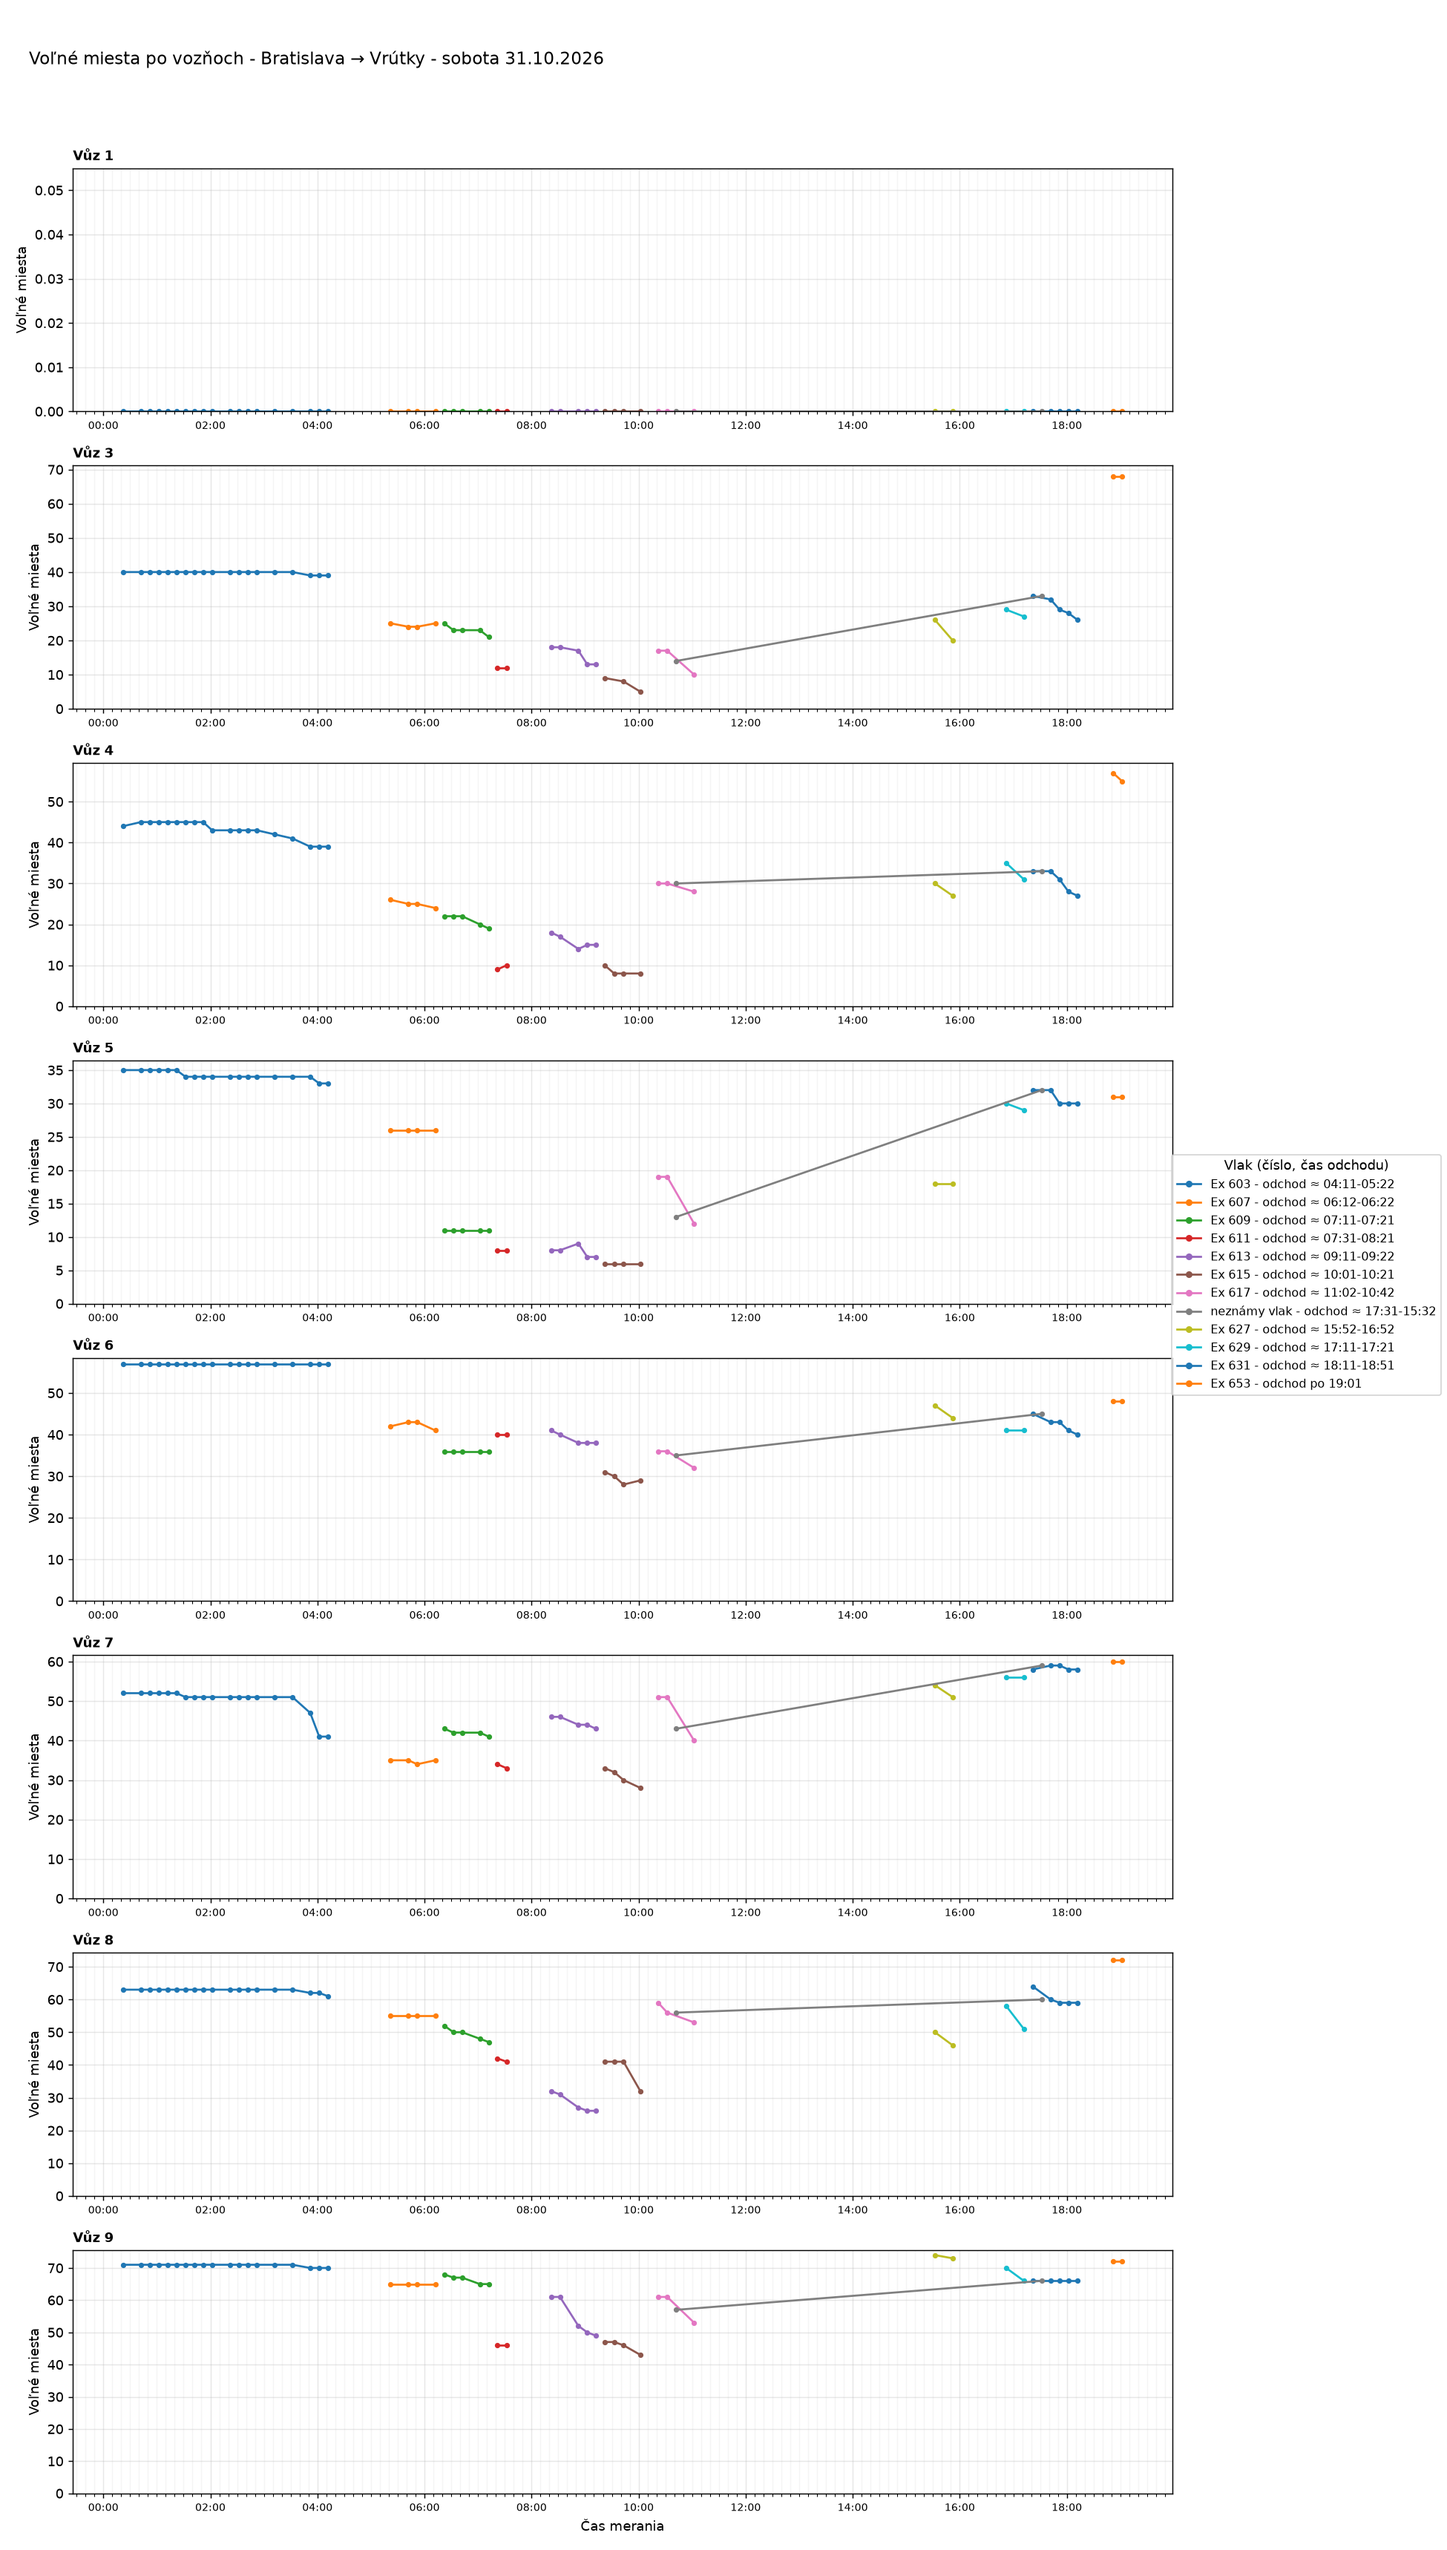
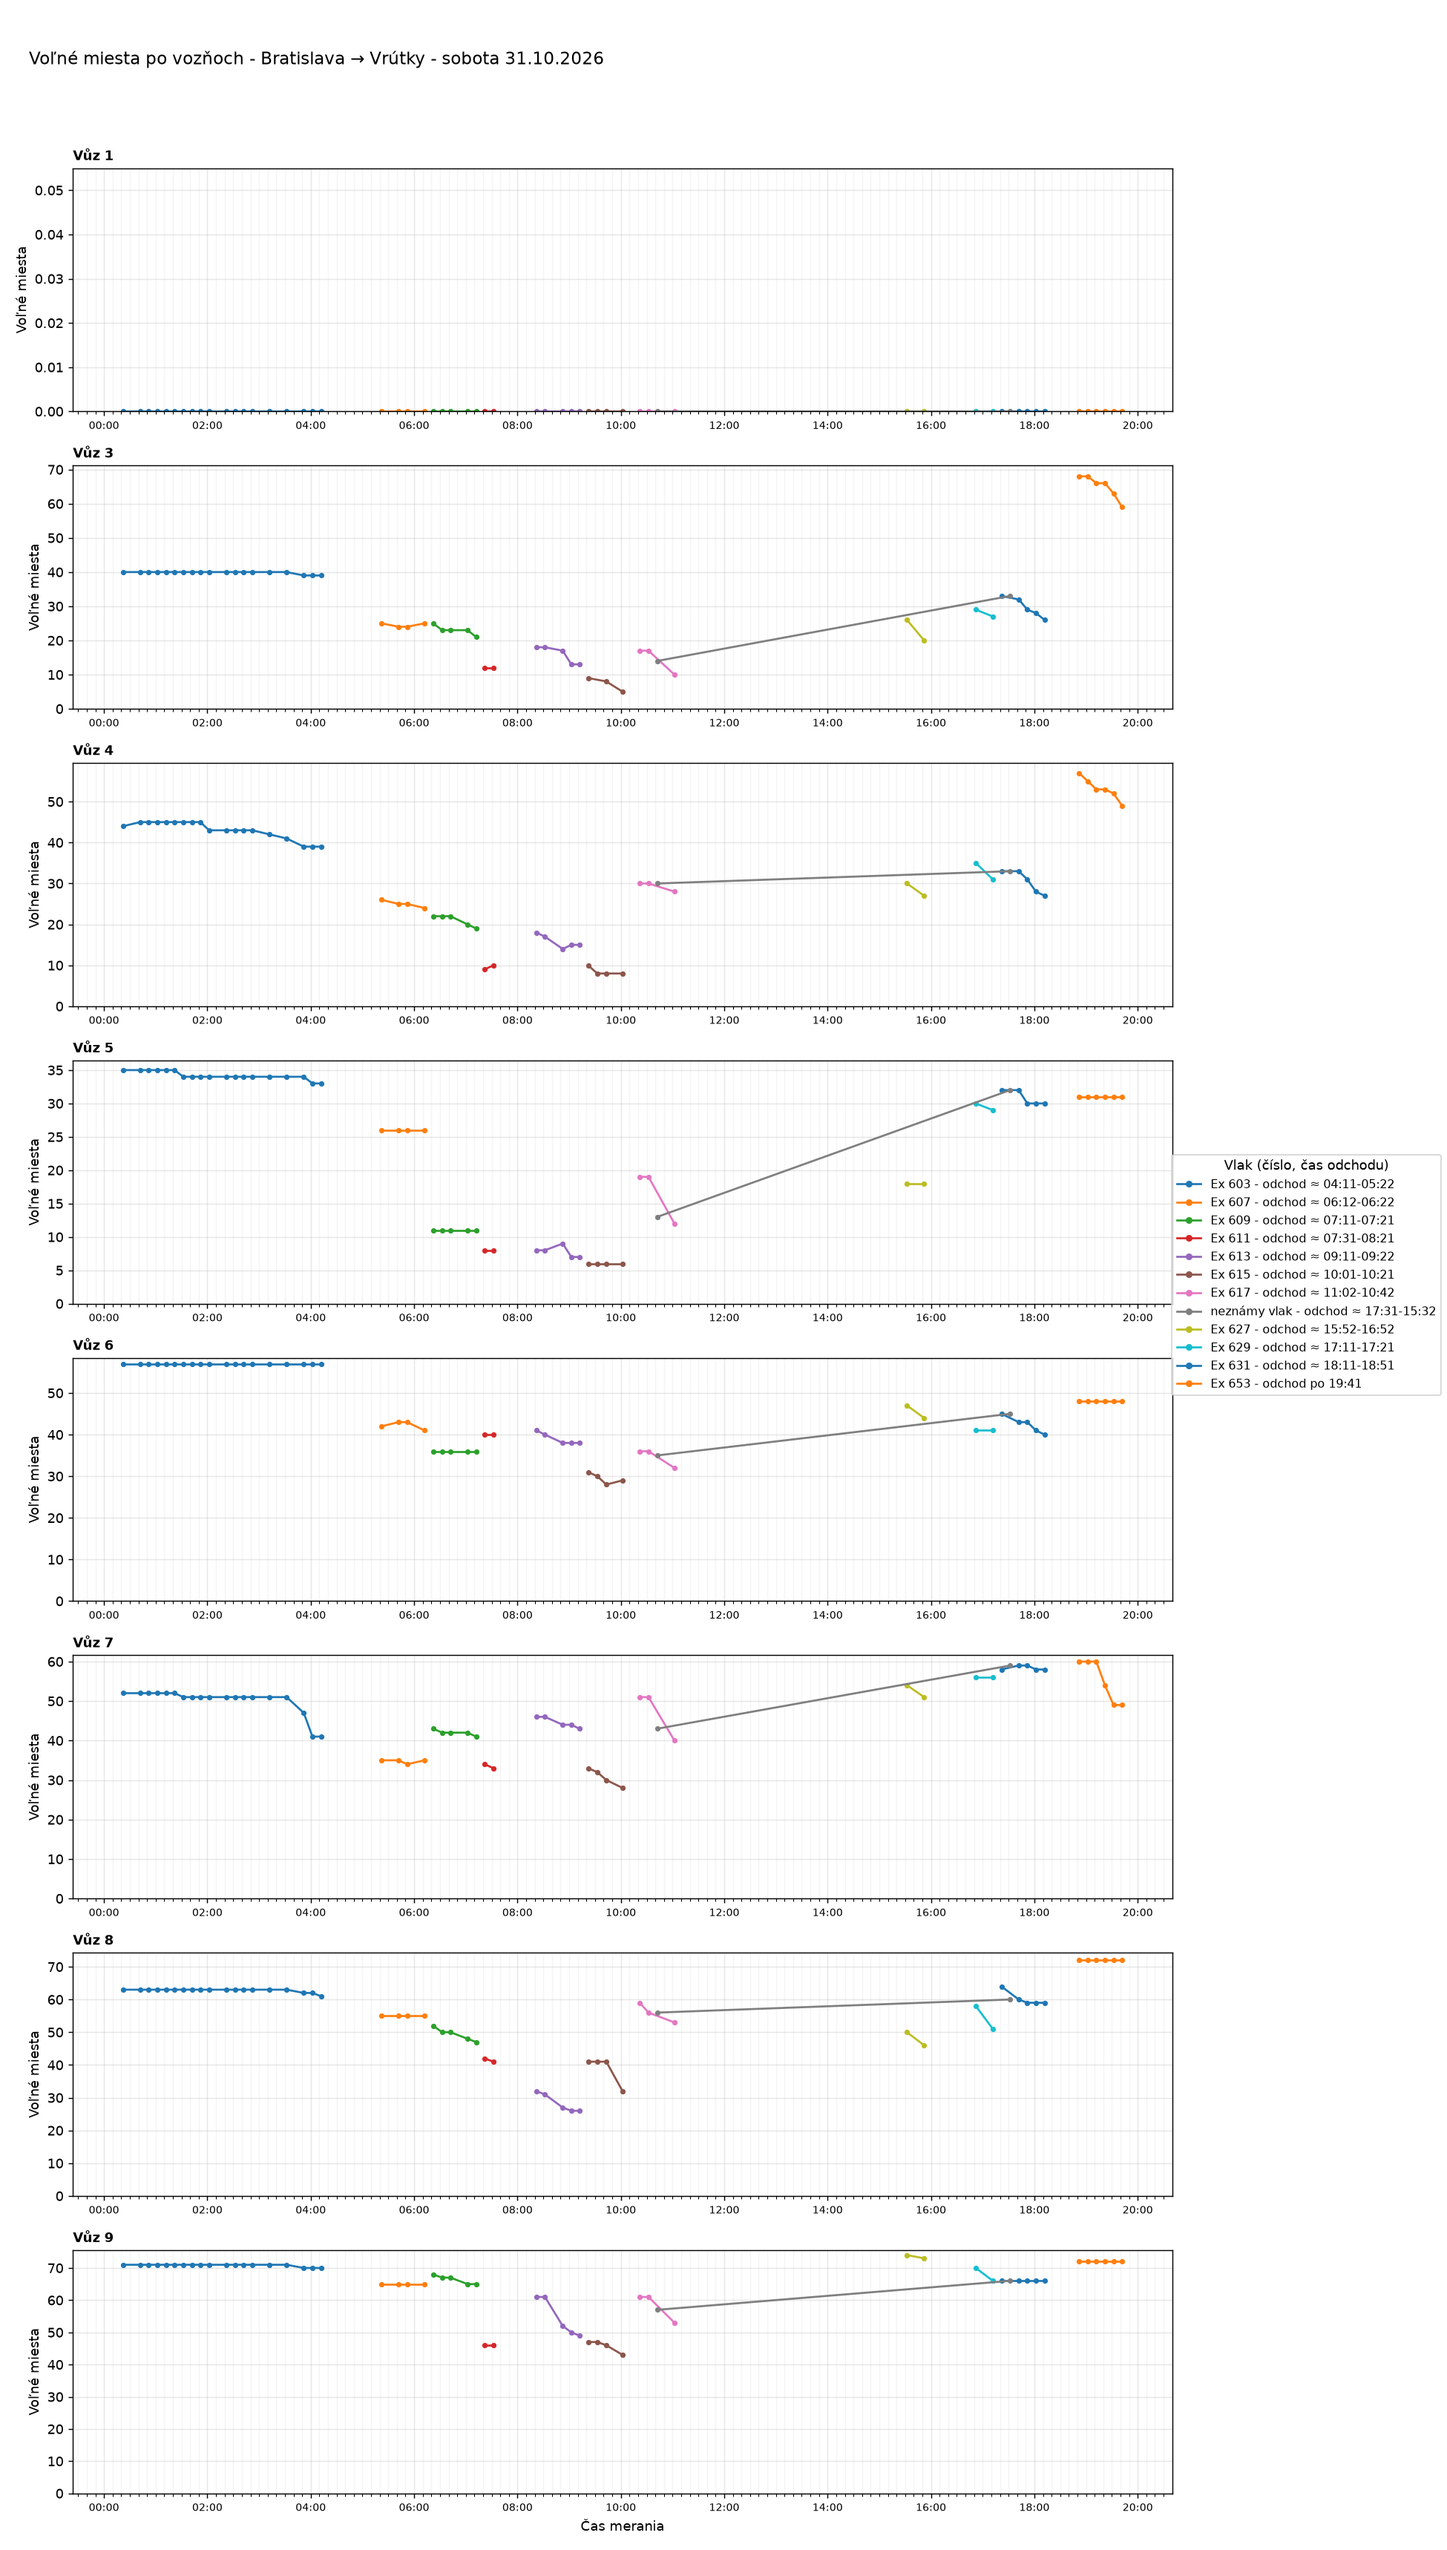
Aktualizácia grafov 2026-10-31 20:12

diff --git a/index.html b/index.html
@@ -37,7 +37,7 @@ details.trasa>summary{cursor:pointer;font-weight:600;font-size:1.1rem;padding:8p
 <body>
 <main>
 <h1>Voľné miesta vo vlakoch</h1>
-<p class="muted">Posledné meranie: 31.10.2026 19:02 ·
+<p class="muted">Posledné meranie: 31.10.2026 19:41 ·
 <a href="data/obsadenost_data.csv">stiahnuť dáta (CSV)</a></p>
 <nav class="nav"><a href="#suhrn">Súhrn</a><a href="#statistiky">Štatistiky</a><a href="#historia">História grafov</a></nav>
 
@@ -46,7 +46,7 @@ details.trasa>summary{cursor:pointer;font-weight:600;font-size:1.1rem;padding:8p
 <div class="tablewrap"><table>
 <thead><tr><th>Deň</th><th>Trasa</th><th>Meraní</th><th>Vlakov</th><th>Čas meraní</th></tr></thead>
 <tbody>
-<tr><td><a href="#dBA-VR-2026-10-31">sobota 31.10.2026</a></td><td>Bratislava → Vrútky</td><td>55</td><td>12</td><td>00:21-19:01</td></tr>
+<tr><td><a href="#dBA-VR-2026-10-31">sobota 31.10.2026</a></td><td>Bratislava → Vrútky</td><td>59</td><td>12</td><td>00:21-19:41</td></tr>
 <tr><td><a href="#dVR-BA-2026-10-31">sobota 31.10.2026</a></td><td>Vrútky → Bratislava</td><td>51</td><td>12</td><td>02:42-19:02</td></tr>
 <tr><td><a href="#dBA-KE-2026-10-31">sobota 31.10.2026</a></td><td>Bratislava → Košice</td><td>54</td><td>11</td><td>00:23-18:13</td></tr>
 <tr><td><a href="#dKE-BA-2026-10-31">sobota 31.10.2026</a></td><td>Košice → Bratislava</td><td>39</td><td>11</td><td>00:34-18:03</td></tr>
